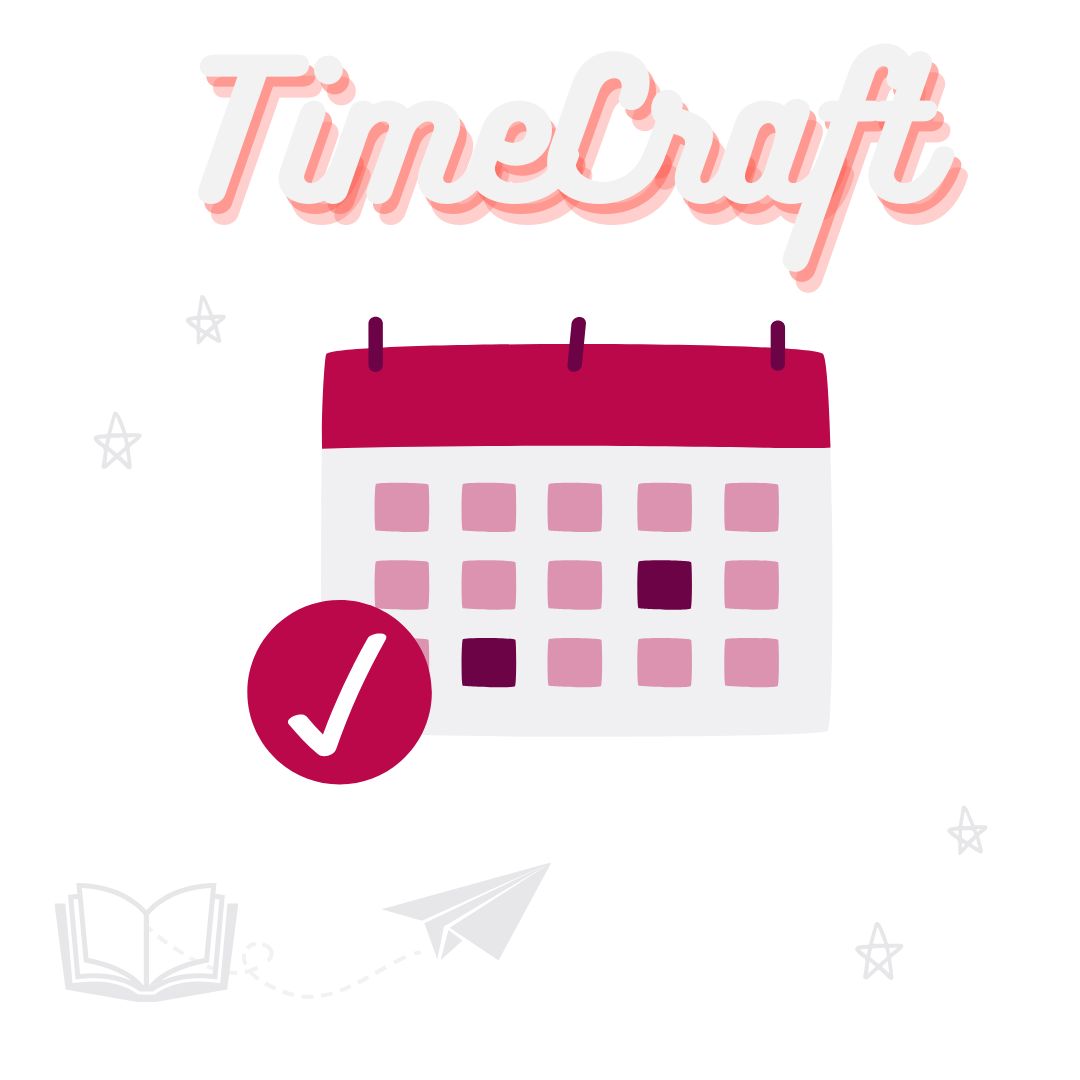
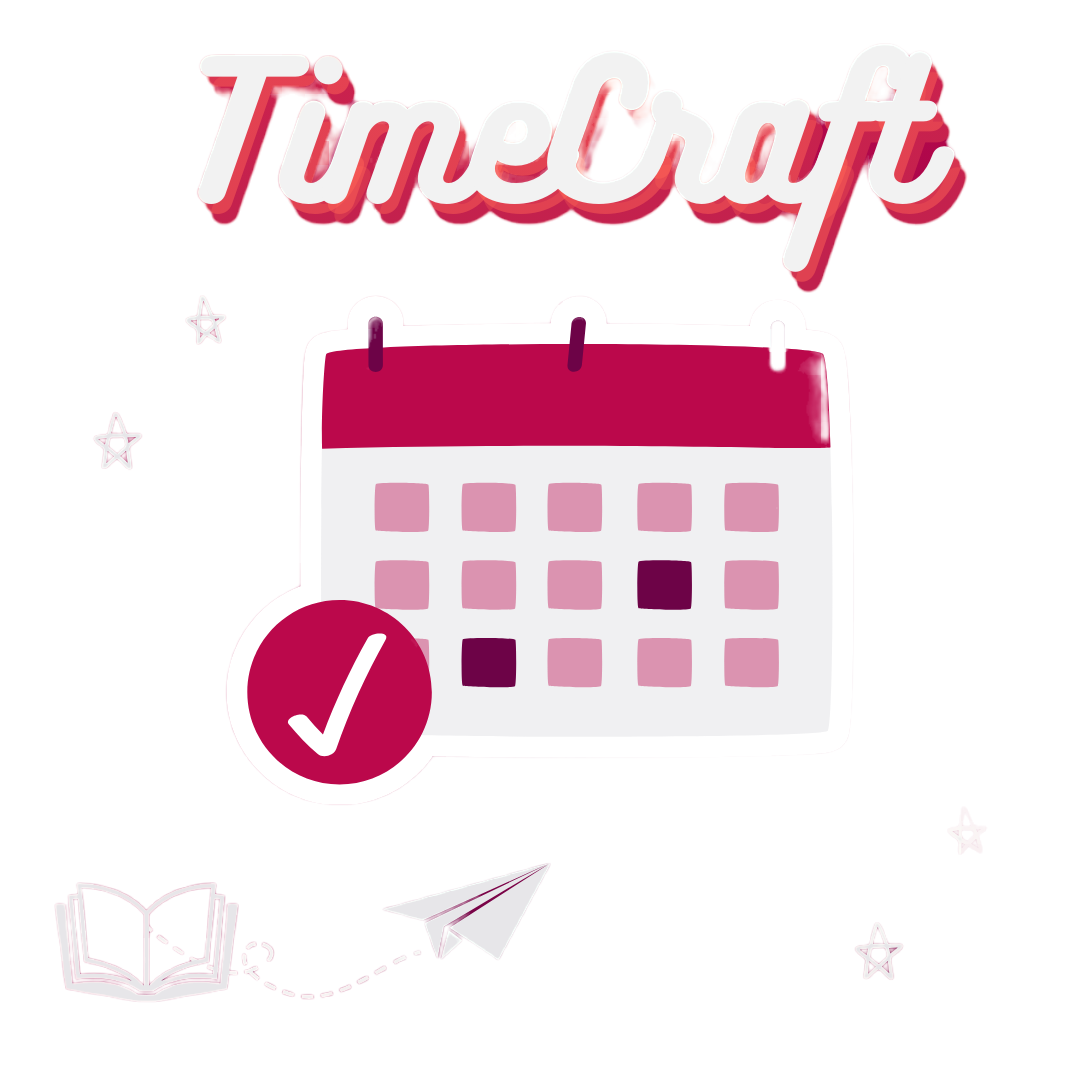
Fix image in login and registration forms

diff --git a/TimeCraft-WPF-App/MainWindow.xaml b/TimeCraft-WPF-App/MainWindow.xaml
@@ -105,8 +105,14 @@
                     <ColumnDefinition Width="*"></ColumnDefinition>
                     <ColumnDefinition Width="*"></ColumnDefinition>
                 </Grid.ColumnDefinitions>
-                <Border Grid.Column="0" Background="{StaticResource PrimaryBackgroundColor}">
-                    <Image Source="../Images/TimeCraftArt.png" Stretch="Uniform"/>
+                <Border Grid.Column="0">
+                    <Border.Background>
+                        <LinearGradientBrush StartPoint="0,0" EndPoint="1,1">
+                            <GradientStop Color="{StaticResource PrimaryGradientColor}" Offset="0"/>
+                            <GradientStop Color="{StaticResource SecondaryGradientColor}" Offset="0.6"/>
+                        </LinearGradientBrush>
+                    </Border.Background>
+                    <Image Source="../Images/TimeCraft.png" Stretch="Uniform"/>
                 </Border>
                 <Border Grid.Column="1" Background="{StaticResource PrimaryBackgroundColor}">
                     <TabControl SelectedIndex="{Binding SelectedTabIndex}">
